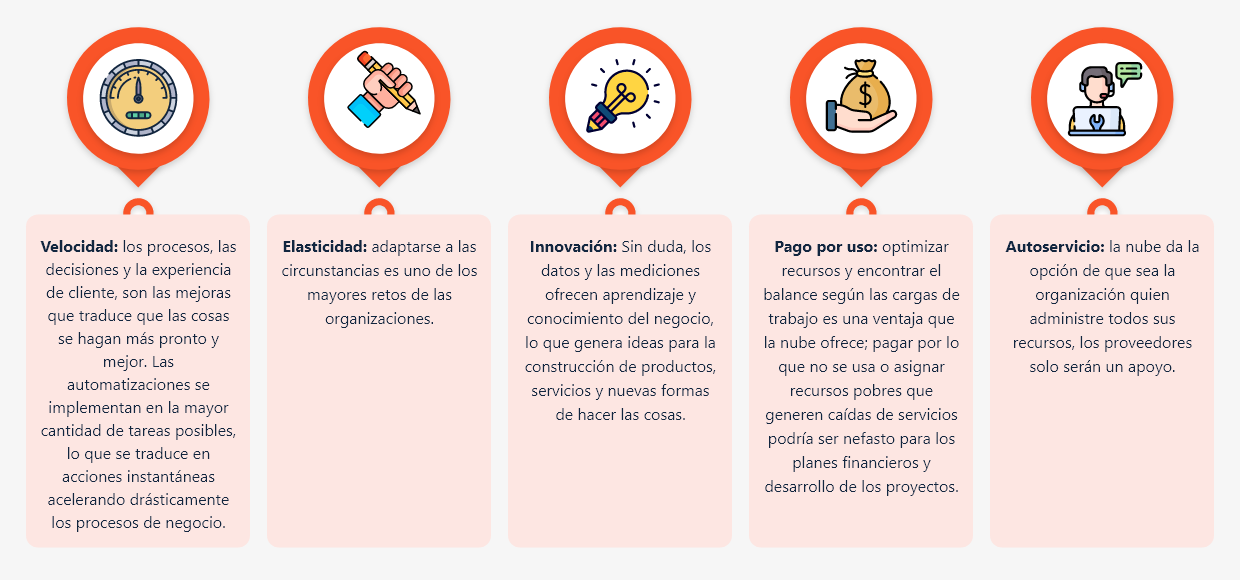
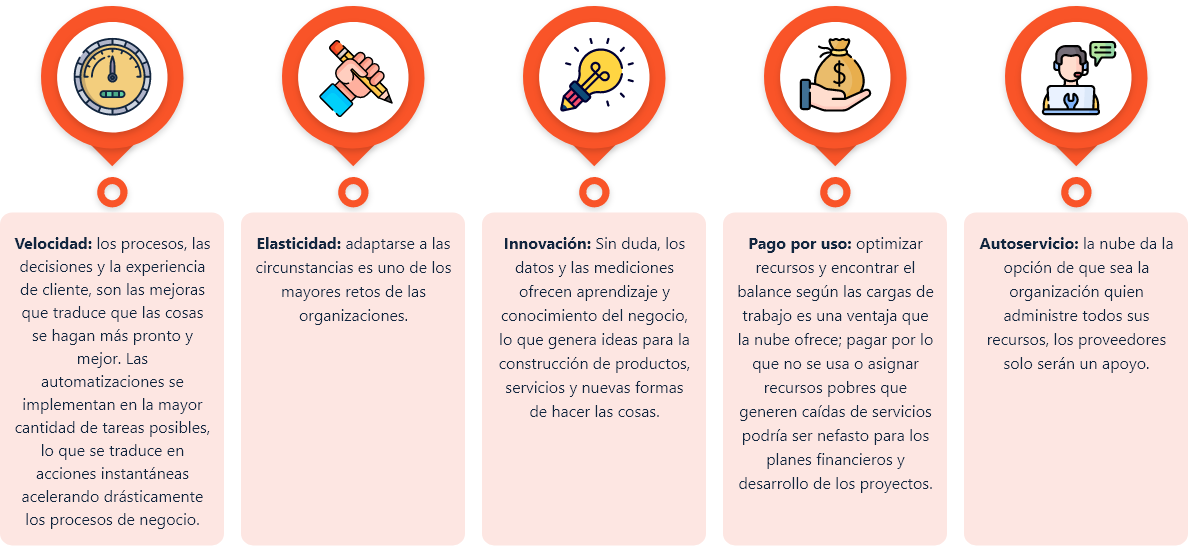
entrega

Changed region(s): [[0.0, 0.0, 0.9966, 0.9652]]

diff --git a/src/views/Tema5.vue b/src/views/Tema5.vue
@@ -36,7 +36,8 @@
         .titulo-sexto.color-acento-contenido.mb-4(data-aos="zoom-in-left")
           h5 Figura 9.
           span Las 6 Rs de #[em AWS] para migración a la nube
-        img(data-aos="zoom-in")(src='@/assets/curso/temas/tema5/img3.png', alt='')
+        img.d-none.d-lg-block(data-aos="zoom-in")(src='@/assets/curso/temas/tema5/img3.png', alt='La figura representa los beneficios de la migración hacia la nube. Primero, un ahorro promedio del 31% en costos de infraestructura. Segundo, un 43% menos de incidentes de seguridad al año. Tercero, un aumento del 62% en la productividad del personal de TI. Cuarto, un aumento del 78% en la velocidad de implementar nuevos recursos informáticos.')
+        img.imagen-mobile(data-aos="zoom-in")(src='@/assets/curso/temas/tema5/img3.15.png', alt='La figura representa los beneficios de la migración hacia la nube. Primero, un ahorro promedio del 31% en costos de infraestructura. Segundo, un 43% menos de incidentes de seguridad al año. Tercero, un aumento del 62% en la productividad del personal de TI. Cuarto, un aumento del 78% en la velocidad de implementar nuevos recursos informáticos.')
   
     .mb-5 #[b De forma simplificada, puede explicarse cada una de las estrategias que involucran la migración a la nube en la siguiente imagen.]
     
@@ -46,7 +47,7 @@
         .titulo-sexto.color-acento-contenido.mb-4(data-aos="zoom-in-left")
           h5 Figura 10.
           span Estrategias de migracion
-        img(data-aos="zoom-in")(src='@/assets/curso/temas/tema5/fig9.png', alt='')
+        img(data-aos="zoom-in")(src='@/assets/curso/temas/tema5/fig9.png', alt='La figura representa las estrategias de migración. Inicia con el rehospedaje, la replataforma, la recompra, el rediseño, la retención y la retirada.')
     
 
     .mb-4.d-flex
@@ -272,7 +273,9 @@
         .titulo-sexto.color-acento-contenido.mb-4(data-aos="zoom-in-left")
           h5 Figura 11.
           span Beneficios generales de migrar a la nube
-        img(data-aos="zoom-in")(src='@/assets/curso/temas/tema5/11.png', alt='')
+        .cajj.p-4
+          img.d-none.d-lg-block(data-aos="zoom-in")(src='@/assets/curso/temas/tema5/11.png', alt='La figura representa los beneficios de migrar los servicios a la nube. Entre ellos están la velocidad, la elasticidad, la innovación, el pago por uso y el autoservicio.')
+          img.imagen-mobile(data-aos="zoom-in")(src='@/assets/curso/temas/tema5/11.13.jpg', alt='La figura representa los beneficios de migrar los servicios a la nube. Entre ellos están la velocidad, la elasticidad, la innovación, el pago por uso y el autoservicio.')
 
     h4.mb-4 Motivadores para migrar a la nube
 
@@ -303,7 +306,9 @@
         p(data-aos="zoom-in-left") Todo cambio implica pasar por una serie de obstáculos que en términos humanos y organizacionales son complejos y motivo de crisis, sería extraño lo contrario; el reto elemental de toda empresa es continuar en el mercado de manera exitosa y en ese sentido, las organizaciones, de todos los tamaños enfrentan grandes desafíos comerciales, incluso de su existencia misma en el tiempo.
         .bg13.p-4.mb-2 
           .row.d-flex.align-items-center.justify-content-center
-            .col-lg-12 Si bien, el enfoque de este material de estudio es técnico, no se puede dejar de lado las circunstancias mundiales, tales como la inestabilidad económica, crisis geopolítica, rezagos de la pandemia COVID-19 y otros componentes globales y nacionales que impactan a las organizaciones de todos los tamaños. Uno de esos componentes fuertes de inestabilidad, es el tránsito actual que el mundo productivo, económico y social está atravesando hacia la cuarta revolución industrial. Aun así, muchos empresarios, tienen la opinión de que ..
+            .col-lg-12 
+              p.mb-4.text-center.b #[b “Crecer duele, pero es necesario”]
+              P.mb-0 Si bien, el enfoque de este material de estudio es técnico, no se puede dejar de lado las circunstancias mundiales, tales como la inestabilidad económica, crisis geopolítica, rezagos de la pandemia COVID-19 y otros componentes globales y nacionales que impactan a las organizaciones de todos los tamaños. Uno de esos componentes fuertes de inestabilidad, es el tránsito actual que el mundo productivo, económico y social está atravesando hacia la cuarta revolución industrial. Aun así, muchos empresarios, tienen la opinión de que ..
             .col-10.my-2.mx-2
           .bg-white-r.mb-0.p-2.mt-0.mx-0.fw-bold 
             p.mb-1 Sin tecnología y sin transformación digital, sus organizaciones seguirán como de costumbre, igual que debió pasarles a muchos empresarios a inicios del siglo XX, donde opinaron que sin energía podrían trabar como siempre. Según la Unión Sindical de CCOO (2016).
@@ -316,10 +321,10 @@
     .row.mb-5
       .col-lg-12-sm-10.col-md-12.col-lg-12.m-auto    
         .titulo-sexto.color-acento-contenido.mb-4(data-aos="zoom-in-left")
-          h5 Figura 11.
+          h5 Figura 12
           span Cifras, Beneficios de la migracion hacia servicios cloud
         .col-lg-8-sm-10.col-md-8.col-lg-8.m-auto
-          img(data-aos="zoom-in")(src='@/assets/curso/temas/tema5/img10.png', alt='')
+          img(data-aos="zoom-in")(src='@/assets/curso/temas/tema5/img10.png', alt='La figura representa los beneficios de la migración hacia la nube. Primero, un ahorro promedio del 31% en costos de infraestructura. Segundo, un 43% menos de incidentes de seguridad al año. Tercero, un aumento del 62% en la productividad del personal de TI. Cuarto, un aumento del 78% en la velocidad de implementar nuevos recursos informáticos.')
   
     p.mb-5 #[b Retos tecnológicos al migrar a la nube]
 
@@ -427,7 +432,8 @@
               p.mb-0 Monitorizar la existencia de grandes movimientos internos de datos con herramientas de monitorización de actividad de bases de datos (DAM - Database Activity Monitoring) y de monitorización de actividad en archivos (FAM - File Activity Monitoring).
             
         .col-lg-6.sm-8.col-md-4.lg-8.pt-8 
-        img.img-a.img-t(data-aos="zoom-in")(src='@/assets/curso/temas/tema5/img14.png', alt='')
+        img.img-a.img-t.d-none.d-lg-block(data-aos="zoom-in")(src='@/assets/curso/temas/tema5/img14.png', alt='')
+        img.img-a.img-t.imagen-mobile.mb-4(data-aos="zoom-in")(src='@/assets/curso/temas/tema5/img14.13.jpg', alt='')
       
     p.mb-4 Monitorizar la migración de datos a Cloud con filtros URL y herramientas Data Loss Prevention. En las implementaciones de Cloud públicas y privadas, y a través de los diferentes modelos de servicio, es importante proteger los datos en tránsito. Esto incluye:
 

diff --git a/src/views/Tema1.vue b/src/views/Tema1.vue
@@ -9,7 +9,7 @@
       
     .row.align-items-center.justify-content-center.mb-0(data-aos="zoom-in-left")
       .col-lg-4.col-md-10.col-9.my-3
-        img.img-a.img-t.mb-4(src='@/assets/curso/temas/tema1/img1.png', alt='')
+        img.img-a.img-t.mb-4(src='@/assets/curso/temas/tema1/img1.png', alt='tema1')
       .col-lg-8.col-md-12.col-12.my-3
         p La computación en la nube 
           strong.resaltado #[em #[b (Computing cloud)  ]]  
@@ -41,7 +41,8 @@
         .bag14
           .row.d-flex.align-items-center.justify-content-center.mb-2
             .col-lg-9.col-md-10.col-12.my-5
-              img(data-aos="zoom-in")(src='@/assets/curso/temas/tema1/img3.png', alt=' La figura representa los antecedentes de la computación en la nube, comenzando en los años 70 y 80 con Mainframe, donde destacaban empresas como IBM, UNISYS y NEC. Luego, en los noventa, surgieron actores  como Microsoft, Intel, HP y Compaq. En los años 2000, Internet se convirtió en un elemento fundamental con empresas como Yahoo, Google, Amazon, entre otros. Finalmente, en 2010, la computación en la nube tomó protagonismo, con la presencia de empresas como LinkedIn, Box, Apple, Twitter, Amazon, entre otros.')
+              img.d-none.d-lg-block(data-aos="zoom-in")(src='@/assets/curso/temas/tema1/img3.png', alt='La figura representa los antecedentes de la computación en la nube, comenzando en los años 70 y 80 con Mainframe, donde destacaban empresas como IBM, UNISYS y NEC. Luego, en los noventa, surgieron actores  como Microsoft, Intel, HP y Compaq. En los años 2000, Internet se convirtió en un elemento fundamental con empresas como Yahoo, Google, Amazon, entre otros. Finalmente, en 2010, la computación en la nube tomó protagonismo, con la presencia de empresas como LinkedIn, Box, Apple, Twitter, Amazon, entre otros.')
+              img.imagen-mobile(data-aos="zoom-in")(src='@/assets/curso/temas/tema1/img3.11.png', alt='La figura representa los antecedentes de la computación en la nube, comenzando en los años 70 y 80 con Mainframe, donde destacaban empresas como IBM, UNISYS y NEC. Luego, en los noventa, surgieron actores  como Microsoft, Intel, HP y Compaq. En los años 2000, Internet se convirtió en un elemento fundamental con empresas como Yahoo, Google, Amazon, entre otros. Finalmente, en 2010, la computación en la nube tomó protagonismo, con la presencia de empresas como LinkedIn, Box, Apple, Twitter, Amazon, entre otros.')
             .row 
               .col-lg-auto.col-md-10.col-11.pabg.mb-3.mx-3
                 p.mb-2.my-2 Nota. Adaptación tomada de, Entendiendo a la nube informática. #[em (Cloud computing.Blog,] 2016)
@@ -121,8 +122,10 @@
         .titulo-sexto.color-acento-contenido.mb-4(data-aos="zoom-in-left")
           h5 Figura 2.
           span Arquitectura computacion en la nube
-        img.mb-4(data-aos="zoom-in")(src='@/assets/curso/temas/tema1/img6.png', alt='')
-  
+        img.mb-4.d-none.lg-block(data-aos="zoom-in")(src='@/assets/curso/temas/tema1/img6.png', alt='La figura representa la arquitectura de la computación en la nube, en la cual, a través de servidores, escritorios remotos, aplicaciones y almacenamiento de datos, junto con la ayuda de routers y switches, se brinda acceso a los usuarios finales.')
+        img.mb-4.imagen-mobile(data-aos="zoom-in")(src='@/assets/curso/temas/tema1/img6.11.png', alt='La figura representa la arquitectura de la computación en la nube, en la cual, a través de servidores, escritorios remotos, aplicaciones y almacenamiento de datos, junto con la ayuda de routers y switches, se brinda acceso a los usuarios finales.')
+        
+        
     p.mb-5 En términos generales, emplear computación en la nube en vez de usar infraestructura local tiene ventajas como las que se muestran a continuación:
 
     .row.justify-content-center.align-items-center.mb-5
@@ -216,8 +219,9 @@
         .titulo-sexto.color-acento-contenido.mb-4(data-aos="zoom-in-left")
           h5 Figura 3.
           span Modelo De servicios en la nube
-        img(data-aos="zoom-in")(src='@/assets/curso/temas/tema1/img10.png', alt='')
-  
+        img.d-none.d-lg-block(data-aos="zoom-in")(src='@/assets/curso/temas/tema1/img10.png', alt='La figura representa un modelo de servicios en la nube a través de una pirámide. En la base se encuentran los modelos IaaS (Infraestructura como Servicio). En el siguiente pilar se encuentra PaaS (Plataforma como Servicio). Y en la cúspide de la pirámide se encuentra SaaS (Software como Servicio).')
+        img.imagen-mobile(data-aos="zoom-in")(src='@/assets/curso/temas/tema1/img10.11.png', alt='La figura representa un modelo de servicios en la nube a través de una pirámide. En la base se encuentran los modelos IaaS (Infraestructura como Servicio). En el siguiente pilar se encuentra PaaS (Plataforma como Servicio). Y en la cúspide de la pirámide se encuentra SaaS (Software como Servicio).')
+        
     p.mb-5 Cuando no se hacen planes de inversión para adquirir recursos TI, los servicios se pagan mensual o anual, a un tercero según las necesidades de la organización. En la mayoría de los casos existen grandes prestadores de soluciones tecnológicas con infraestructuras de gran tamaño e inversión para la transformación digital, que cubren múltiples servicios.
     
     h4.d-flex.justify-content Los gigantes de la nube

diff --git a/src/views/Tema2.vue b/src/views/Tema2.vue
@@ -61,7 +61,7 @@
           .row(titulo="Arreglos de servidores de almacenamiento")
             .col-12.ps-6
               p.mb-0 Son nodos responsables de guardar y tramitar los datos físicamente.
-          .row(titulo="volúmenes gigantes en <em>terabytes</em> (TB) o <em>petabytes</em> (PB)")
+          .row(titulo="Volúmenes gigantes en <em>terabytes</em> (TB) o <em>petabytes</em> (PB)")
             .col-12.ps-6
               p.mb-0 Hemos trabajado con una unidad de almacenamiento en la computadora, sin embargo, los clusters, los cuales están en centros de datos de las compañías alrededor del mundo con muchas máquinas, cada una con muchas unidades de almacenamiento comportándose como una sola unidad de almacenamiento.
           .row(titulo="Nodos de datos")
@@ -78,7 +78,8 @@
         .titulo-sexto.color-acento-contenido.mb-4(data-aos="zoom-in-left")
           h5 Figura 4.
           span Ejemplo Arquitectura de clúster e interactividad con los demás sistemas
-        img(data-aos="zoom-in")(src='@/assets/curso/temas/tema2/img3.png', alt='')
+        img.d-none.d-lg-block(data-aos="zoom-in")(src='@/assets/curso/temas/tema2/img3.png', alt='La figura representa un ejemplo de arquitectura de clúster e interactividad con los demás sistemas. Inicia con los servidores de servicio, que son los recursos computacionales. Estos están conectados mediante un bus de comunicaciones que pasan los datos por el Nodo administrador de almacenamiento, que se dividen en tres servidores de almacenamiento, cada uno con sus respectivos clúster. Posteriormente, atraviesan el nodo de gestión y autenticación etapa conocida como “Frontend” para legar a una conexión segura hacia los usuarios finales.')
+        img.imagen-mobile(data-aos="zoom-in")(src='@/assets/curso/temas/tema2/img3.12.png', alt='La figura representa un ejemplo de arquitectura de clúster e interactividad con los demás sistemas. Inicia con los servidores de servicio, que son los recursos computacionales. Estos están conectados mediante un bus de comunicaciones que pasan los datos por el Nodo administrador de almacenamiento, que se dividen en tres servidores de almacenamiento, cada uno con sus respectivos clúster. Posteriormente, atraviesan el nodo de gestión y autenticación etapa conocida como “Frontend” para legar a una conexión segura hacia los usuarios finales.')
   
     .row.justify-content-center.align-items-center(data-aos="zoom-in-left")
       .col-lg-10
@@ -137,7 +138,7 @@
         .caja 
           .row.align-items-center.justify-content-center
             .col-lg-2.md-lg-10.col-12   
-              img.my-4.img-a.img-t(src='@/assets/curso/temas/tema2/serv.png', alt='')
+              img.my-4.img-a.img-t(src='@/assets/curso/temas/tema2/serv.png', alt='La imagen representa  un dispositivo de hardware que le permite implementar IBM Storage Scale  en miles de nodos con un rendimiento de TB/s, baja latencia y decenas de millones de IOP por nodo.')
           .row.align-items-center.justify-content-center 
             .col-lg-auto.md-lg-10.col-12 
               p.mx-3 Nota. https://www.ibm.com/products/elastic-storage-system
@@ -236,7 +237,7 @@
           span Arquitectura de referencia copias de respaldo
     .row
       .col-lg-6.md-lg-10.col-12
-        img(data-aos="zoom-in")(src='@/assets/curso/temas/tema2/fig6.png',)
+        img(data-aos="zoom-in")(src='@/assets/curso/temas/tema2/fig6.png' ,alt='La figura representa la arquitectura de referencia para copias de respaldo. Inicia con "Customer Premises" y pasa por "SAN" y "NAS". Luego, va hacia "Third Party Backup", "Oracle Storage Gateway" y la Base de Datos. Posteriormente, se conecta a través de "Public Internet" y "FastConnect”, y finalmente entra en el "Cloud" (nube) para almacenar copias de respaldo utilizando "Public Object Storage" y "Access Management" (gestión de acceso).')
     
       .col-lg-6.md-lg-10.col-12
         .cajon 

diff --git a/src/views/Tema3.vue b/src/views/Tema3.vue
@@ -36,7 +36,8 @@
         .titulo-sexto.color-acento-contenido.mb-4(data-aos="zoom-in-left")
           h5 Figura 7.
           span Esquema de virtualizacion
-        img(data-aos="zoom-in")(src='@/assets/curso/temas/tema3/img3.png', alt='')
+        img.d-none.d-lg-block(data-aos="zoom-in")(src='@/assets/curso/temas/tema3/img3.png', alt='La figura representa el esquema de virtualización, a través de una infraestructura, el hipervisor crea máquinas virtuales. Estas máquinas virtuales pueden contener tanto el sistema operativo (SO) como las aplicaciones (APP).')
+        img.imagen-mobile(data-aos="zoom-in")(src='@/assets/curso/temas/tema3/img3.13.png', alt='La figura representa el esquema de virtualización, a través de una infraestructura, el hipervisor crea máquinas virtuales. Estas máquinas virtuales pueden contener tanto el sistema operativo (SO) como las aplicaciones (APP).')
 
     Separador
     #t_3_1.titulo-segundo.color-acento-contenido(data-aos="zoom-in-left")
@@ -121,7 +122,7 @@
                   p.mb-1 En este tipo de virtualización se usa el hipervisor, el cual es un #[em software] que se encarga de la supervisión y gestión de los recursos físicos y de adicionalmente se encarga de independizar cada servidor virtual. Sin embargo, el hipervisor requiere recursos para hacer el procesamiento correspondiente lo que puede afectar el rendimiento general del servidor.
                     .d-flex.justify-content-center
                       .col-lg-8
-                        img.my-4.img-t.img-a.mb-5(src="@/assets/curso/temas/tema3/img7.png")
+                        img.my-4.img-t.img-a.mb-5(src="@/assets/curso/temas/tema3/img7.png",alt='El esquema representa la virtualización completa a través de Apps, Guest OS y Mgmt. Se utiliza un hipervisor y un hardware para este proceso.')
       
               .col-lg-6.col-md-12.col-12.mt-2
                 .tarjetassss.my-4.he-4-cuii.px-4.pt-2
@@ -129,7 +130,7 @@
                   p.mb-3 En este esquema cada sistema operativo de los servidores virtuales tiene conocimiento de la existencia de los otros por lo cual el hipervisor se libera un poco de la carga para gestionar los sistemas operativos, adicionalmente se tiene ventajas como la posibilidad de crear copias de seguridad más fácilmente, migraciones más rápidas, mejor utilización del sistema y ahorro de energía. No todos los sistemas operativos soportan paravirtualización y en algunos casos se pueden presentar problemas de compatibilidad de #[em hardware.]
                     .d-flex.justify-content-center
                       .col-lg-8
-                        img.img-t.img-a.mb-5(src="@/assets/curso/temas/tema3/img7.1.png")
+                        img.img-t.img-a.mb-5(src="@/assets/curso/temas/tema3/img7.1.png",alt='El esquema representa la paravirtualización a través de Apps, Modified Guest OS y Mgmt. Se utiliza un hipervisor y un hardware para este proceso.')
     
         h3.mb-4 Virtualización a nivel de sistema operativo o basada en contenedores
     
@@ -383,7 +384,7 @@
             .titulo-sexto.color-acento-contenido.mb-3(data-aos="zoom-in-left")
               h5 Figura 8.
               span Funcionamiento de una maquina virtual
-            img(data-aos="zoom-in")(src='@/assets/curso/temas/tema3/img13.1.png', alt='')
+            img(data-aos="zoom-in")(src='@/assets/curso/temas/tema3/img13.1.png', alt='La figura representa el funcionamiento de una máquina virtual a través de aplicaciones 1 y 2, y 3 bibliotecas y sistemas. El proceso pasa por el hipervisor, el sistema operativo host y el hardware.')
 
     Separador
     #t_3_3.titulo-segundo.color-acento-contenido(data-aos="zoom-in-left")

diff --git a/src/styles/_custom.sass b/src/styles/_custom.sass
@@ -9,7 +9,7 @@
     animation: float1 2.8s ease-in-out infinite alternate
     position: absolute
     top: 21%
-    right: 3%
+    right: 10%
 
 @keyframes float1
   0%
@@ -24,29 +24,18 @@
 
 	100%
 		transform: rotate(-180deg) translateX(10px) rotate(180deg)
-.banner-principal .tarjeta figure, .banner-principal .tarjeta picture, .banner-principal .tarjeta img, .banner-principal .tarjeta svg 
-    margin: 0;
-    width: 71%;
-    left: 22%;
-.banner-principal .tarjeta 
-    background-color: #083142;
-    background-size: cover;
-    background-position: right;
+
 
 
 .banner-principal .tarjeta 
   img, svg 
-    display: block;
+    display: auto;
     border-style: hidden;
+
   figure, picture, img, svg 
     margin: 0;
-    width: 84%;
-    left: 10%
-  
-.banner-principal .tarjeta 
-  background-color: #083142;
-  background-size: cover;
-  background-position: right;
+    width: 71%;
+    
     
 .banner-principal__componente 
   margin-bottom: 50px
@@ -95,6 +84,16 @@
   margin-inline: -3.4rem
   @media screen and (max-width: 992px)
     margin-inline: -1.4rem   
+
+@media only screen and (max-width: 768px) 
+  .imagen-mobile 
+    display: block;
+@media only screen and (min-width: 769px) 
+  .imagen-mobile 
+    display: none;
+
+.cajj
+  background-color: #F6F6F6
 
 .ittpun
   width: 100px
@@ -209,6 +208,7 @@
 
 .b 
   color: red
+
 
 .bg1404
   background-color: #F6F6F6
@@ -375,7 +375,7 @@
   background-color: #083142
 
 .bg188
-  background-color: #FFC8BF
+  background-color: #FFD8D2
 
 .bg11
   background-color: #FFECDC

diff --git a/src/views/sintesis.vue b/src/views/sintesis.vue
@@ -12,7 +12,7 @@
     .row.justify-content-center
       .col-lg-10.mb-5
         figure
-          img(src="@/assets/curso/temas/sintesis.png", alt="alt")
+          img(src="@/assets/curso/temas/sintesis.png", alt="La síntesis representa un resumen del componente formativo sobre la migración de servicios a la nube. En ella se abordan diferentes conceptos, definiciones de escenarios, aplicaciones y referentes históricos, así como modelos de servicio. También se incluyen aspectos relacionados con el almacenamiento en la nube, como el volumen estático, el clúster de almacenamiento y la arquitectura de Storage Cloud. Se mencionan las copias de seguridad mediante backup y snapshot, así como los software de virtualización, sus generalidades, herramientas, tipos y máquinas. Además, se tratan los contenedores de software, los hipervisores y Docker. Se exploran algunas estrategias de migración, la monitorización y la alfabetización de los usuarios.")
       .col-auto
         a.anexo.mb-5(:href="obtenerLink('/downloads/Sintesis.pdf')" target="_blank")
           .anexo__icono
